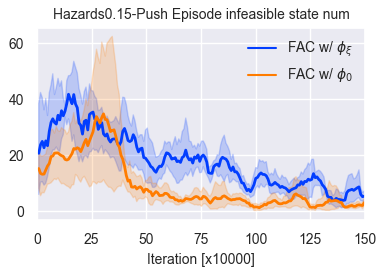
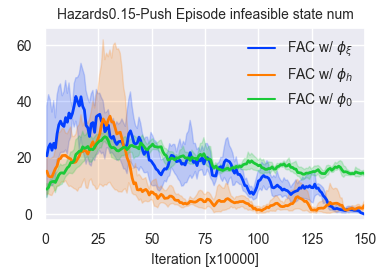
update plots

diff --git a/data_process/lineplot_aaai.py b/data_process/lineplot_aaai.py
@@ -30,17 +30,18 @@ label_font_prop = dict(family='Microsoft YaHei', size=16)
 legend_font_prop = dict(family='Microsoft YaHei')
 
 def help_func():
-    # tag2plot = ['episode_return','episode_cost' ] #
-    tag2plot = ['ep_phi_increase_times']
-    # tag2plot = ['cost_rate']
-    # alg_list = ['FSAC-A','FSAC', 'FSAC-0', 'TRPO-L', 'CPO', 'PPO-L'] #
-    alg_list = ['PPO-DA','PPO-H','FSAC-0'] #
+    # tag2plot = ['episode_return','episode_cost'] #
+    # tag2plot = ['ep_phi_increase_times']
+    tag2plot = ['cost_rate']
+    alg_list = ['FSAC-A','FSAC', 'FSAC-0', 'TRPO-L', 'CPO', 'PPO-L'] #
+    # alg_list = ['PPO-DA','PPO-H','FSAC-0'] #
+    # alg_list = ['PPO-DA', 'PPO-H', 'FSAC-0', 'TRPO-L', 'CPO', 'PPO-L']  #
     # alg_list = ['PPO-DA', 'TRPO-L', 'CPO', 'PPO-L']  # 'SAC',
     # lbs = ['SSAC', 'FSAC-A' ] # , 'TRPO-Lagrangian', 'CPO', 'PPO-Lagrangian'
     # lbs = [r'$\phi_h$', r'$\phi_\xi$']
-    # lbs = [r'FAC w/ $\phi_\xi$', r'FAC w/ $\phi_h$', r'FAC w/ $\phi_0$', 'TRPO-L', 'CPO', 'PPO-L'] #
-    lbs = [r'FAC w/ $\phi_\xi$', r'FAC w/ $\phi_h$'] #, r'FAC w/ $\phi_h$', r'FAC w/ $\phi_0$',
-    task = ['CustomPush2','CustomGoal3',] # 'CustomGoal2','CustomPush1','CustomGoal3',
+    lbs = ['FAC-SIS', r'FAC w/ $\phi_h$', r'FAC w/ $\phi_0$', 'TRPO-L', 'CPO', 'PPO-L'] #
+    # lbs = ['FAC-SIS', r'FAC w/ $\phi_h$', r'FAC w/ $\phi_0$',]
+    task = ['CustomGoal2'] # 'CustomGoal2','CustomPush1','CustomGoal3',
     palette = "bright"
     goal_perf_list = [-200, -100, -50, -30, -20, -10, -5]
     dir_str = '../results/{}/{}' # .format(algo name) # /data2plot
